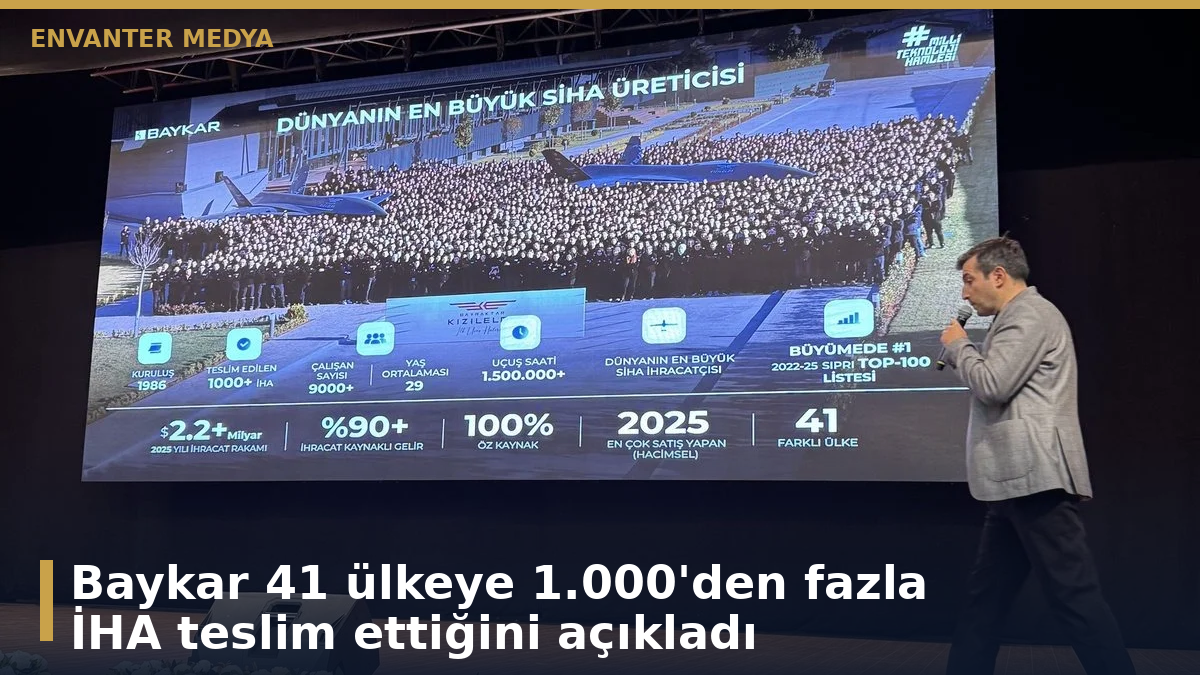
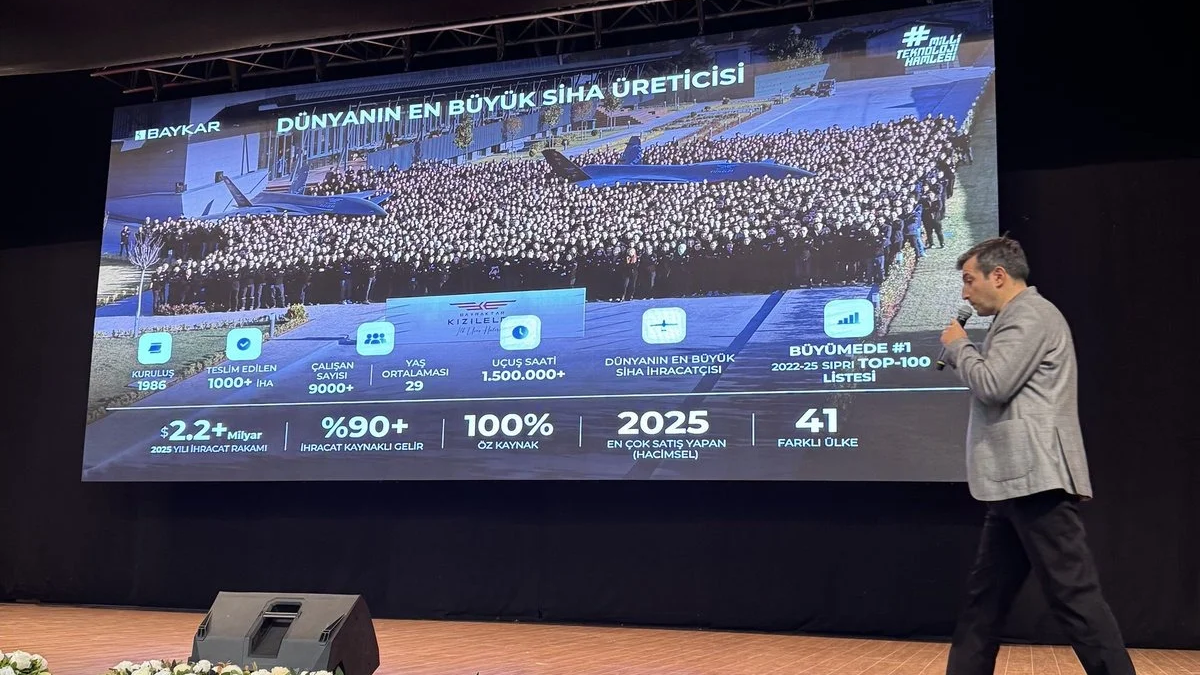
ASELSAN GES haberi: EN/AR/ES/RU sürümleri, tweet fotoğrafları; Baykar kapağı metinsiz
Claude-Session: https://claude.ai/code/session_01AWoAH1BrhXtYXK8KMomuD2

Changed region(s): [[0.0, 0.8089, 1.0, 1.0], [0.0, 0.0, 1.0, 0.0933], [0.8017, 0.6844, 0.925, 0.7467]]

diff --git a/haberler/aselsan-ges-pulsar-inverter/ru/icerik.html b/haberler/aselsan-ges-pulsar-inverter/ru/icerik.html
@@ -1,0 +1,20 @@
+<p><strong>ASELSAN ввела в эксплуатацию две новые солнечные электростанции. Как следует из публикации генерального директора ASELSAN Ахмета Акиола в X от 8 ноября 2026 года, компания также впервые применила на новых объектах собственные инверторы PULSAR.</strong></p>
+<figure class="wp-block-image size-large"><img src="https://envantermedya.com/wp-content/uploads/2026/11/aselsan-ges-akyol-foto-3.webp" alt="Ряды панелей на солнечной электростанции ASELSAN"/><figcaption class="wp-element-caption">Фото: публикация Ахмета Акиола в X</figcaption></figure>
+
+<h2>Главное из заявления Акиола</h2>
+<ul>
+<li>ASELSAN теперь полностью покрывает свои потребности в электроэнергии за счёт солнца.</li>
+<li>Благодаря двум новым станциям за год ожидается сокращение выбросов, равное эффекту четырёх миллионов деревьев.</li>
+<li>На новых станциях впервые в полевых условиях применены инверторы PULSAR, разработанные инженерами ASELSAN.</li>
+<li>Акиол отметил, что компания гордится вкладом этих технологий в «зелёный» переход страны.</li>
+</ul>
+<figure class="wp-block-image size-large"><img src="https://envantermedya.com/wp-content/uploads/2026/11/aselsan-ges-akyol-foto-1.webp" alt="Вид с воздуха на одну из новых солнечных электростанций ASELSAN"/><figcaption class="wp-element-caption">Фото: публикация Ахмета Акиола в X</figcaption></figure>
+
+<h2>Что такое инверторы PULSAR?</h2>
+<p>Инвертор преобразует постоянный ток солнечных панелей в переменный, пригодный для сети. ASELSAN представляла отечественное семейство инверторов PULSAR среди своей энергетической продукции. В феврале 2023 года агентство Anadolu сообщало, что компания строит солнечную станцию мощностью 75 МВт для покрытия годовых потребностей своих кампусов в Анкаре, с использованием 250-киловаттных струнных инверторов PULSAR.</p>
+<p>В публикации Акиола не указаны местоположение новых станций, их установленная мощность и модель PULSAR. Связь с проектом, объявленным в 2023 году, также не уточнена.</p>
+<figure class="wp-block-image size-large"><img src="https://envantermedya.com/wp-content/uploads/2026/11/aselsan-ges-akyol-foto-2.webp" alt="Сотрудники на площадке солнечной электростанции ASELSAN"/><figcaption class="wp-element-caption">Фото: публикация Ахмета Акиола в X</figcaption></figure>
+
+<h2>Что не раскрыто</h2>
+<p>В сообщении нет данных о мощности, объёме инвестиций и годовой выработке станций. Эти сведения прояснятся лишь после официального объявления ASELSAN.</p>
+<p><em>Источники: публикация генерального директора ASELSAN Ахмета Акиола в X (8 ноября 2026 года); агентство Anadolu, февраль 2023 года (инвертор PULSAR и солнечный проект на 75 МВт).</em></p>

diff --git a/haberler/aselsan-ges-pulsar-inverter/ar/icerik.html b/haberler/aselsan-ges-pulsar-inverter/ar/icerik.html
@@ -1,0 +1,20 @@
+<p><strong>دشّنت شركة أسيلسان محطتين جديدتين للطاقة الشمسية. ووفق منشور للمدير العام لأسيلسان أحمد أقيول على منصة X بتاريخ 8 نوفمبر 2026، نقلت الشركة أيضاً محوّلات PULSAR التي طورتها بنفسها إلى الميدان لأول مرة في المحطتين الجديدتين.</strong></p>
+<figure class="wp-block-image size-large"><img src="https://envantermedya.com/wp-content/uploads/2026/11/aselsan-ges-akyol-foto-3.webp" alt="صفوف الألواح في محطة طاقة شمسية لأسيلسان"/><figcaption class="wp-element-caption">الصورة: منشور أحمد أقيول على منصة X</figcaption></figure>
+
+<h2>أبرز ما جاء في تصريح أقيول</h2>
+<ul>
+<li>تلبّي أسيلسان الآن كامل احتياجها من الكهرباء من الطاقة الشمسية.</li>
+<li>بتشغيل المحطتين الجديدتين يُتوقع في عام واحد خفض للانبعاثات يعادل ما تحققه أربعة ملايين شجرة.</li>
+<li>تُستخدم في المحطتين الجديدتين محوّلات PULSAR التي طوّرها مهندسو أسيلسان ميدانياً لأول مرة.</li>
+<li>قال أقيول إنهم فخورون بالمساهمة بهذه التقنيات في التحول الأخضر للبلاد.</li>
+</ul>
+<figure class="wp-block-image size-large"><img src="https://envantermedya.com/wp-content/uploads/2026/11/aselsan-ges-akyol-foto-1.webp" alt="منظر جوي لإحدى محطات الطاقة الشمسية الجديدة لأسيلسان"/><figcaption class="wp-element-caption">الصورة: منشور أحمد أقيول على منصة X</figcaption></figure>
+
+<h2>ما هي محوّلات PULSAR؟</h2>
+<p>المحوّل (الإنفرتر) يحوّل التيار المستمر الذي تنتجه الألواح الشمسية إلى تيار متناوب يمكن ضخه في الشبكة. وكانت أسيلسان قد قدّمت عائلة محوّلات PULSAR المحلية ضمن منتجاتها في مجال الطاقة. وفي فبراير 2023 ذكرت وكالة الأناضول أن الشركة تبني محطة شمسية بقدرة 75 ميغاواط لتغطية الاحتياج السنوي من الكهرباء لمجمعاتها في أنقرة، باستخدام محوّلات PULSAR بقدرة 250 كيلوواط.</p>
+<p>لم يحدّد منشور أقيول موقع المحطتين الجديدتين ولا قدرتهما المركّبة ولا طراز PULSAR المستخدم، ولم يوضح أيضاً صلتهما بالمشروع المعلن عام 2023.</p>
+<figure class="wp-block-image size-large"><img src="https://envantermedya.com/wp-content/uploads/2026/11/aselsan-ges-akyol-foto-2.webp" alt="عاملون في موقع محطة طاقة شمسية تابعة لأسيلسان"/><figcaption class="wp-element-caption">الصورة: منشور أحمد أقيول على منصة X</figcaption></figure>
+
+<h2>ما لم يُعلن</h2>
+<p>لا يتضمن المنشور قدرة المحطتين ولا حجم الاستثمار ولا الإنتاج السنوي. ولن تتضح هذه التفاصيل إلا بإعلان رسمي من أسيلسان.</p>
+<p><em>المصادر: منشور المدير العام لأسيلسان أحمد أقيول على منصة X (8 نوفمبر 2026)؛ وكالة الأناضول، فبراير 2023 (محوّل PULSAR ومشروع الطاقة الشمسية بقدرة 75 ميغاواط).</em></p>

diff --git a/haberler/aselsan-ges-pulsar-inverter/es/icerik.html b/haberler/aselsan-ges-pulsar-inverter/es/icerik.html
@@ -1,0 +1,20 @@
+<p><strong>ASELSAN ha puesto en servicio dos nuevas plantas de energía solar. Según una publicación del director general de ASELSAN, Ahmet Akyol, en X el 8 de noviembre de 2026, la compañía también ha llevado por primera vez a campo sus inversores PULSAR de desarrollo propio en las nuevas instalaciones.</strong></p>
+<figure class="wp-block-image size-large"><img src="https://envantermedya.com/wp-content/uploads/2026/11/aselsan-ges-akyol-foto-3.webp" alt="Filas de paneles en una planta solar de ASELSAN"/><figcaption class="wp-element-caption">Foto: publicación de Ahmet Akyol en X</figcaption></figure>
+
+<h2>Lo más destacado de la declaración de Akyol</h2>
+<ul>
+<li>ASELSAN cubre ahora toda su demanda eléctrica con energía solar.</li>
+<li>Con las dos nuevas plantas, la empresa prevé en un año una reducción de emisiones equivalente a la de cuatro millones de árboles.</li>
+<li>Es la primera vez que los inversores PULSAR, desarrollados por ingenieros de ASELSAN, se utilizan en campo.</li>
+<li>Akyol afirmó que se sienten orgullosos de contribuir con estas tecnologías a la transición verde del país.</li>
+</ul>
+<figure class="wp-block-image size-large"><img src="https://envantermedya.com/wp-content/uploads/2026/11/aselsan-ges-akyol-foto-1.webp" alt="Vista aérea de una de las nuevas plantas solares de ASELSAN"/><figcaption class="wp-element-caption">Foto: publicación de Ahmet Akyol en X</figcaption></figure>
+
+<h2>¿Qué son los inversores PULSAR?</h2>
+<p>Un inversor convierte la corriente continua que generan los paneles solares en corriente alterna apta para la red. ASELSAN ha presentado la familia nacional de inversores PULSAR entre sus productos de energía. En febrero de 2023, la agencia Anadolu informó de que la compañía construía una planta solar de 75 megavatios para cubrir el consumo eléctrico anual de sus instalaciones en Ankara, con inversores de string PULSAR de 250 kilovatios.</p>
+<p>La publicación de Akyol no indica dónde están las nuevas plantas, su potencia instalada ni el modelo PULSAR utilizado. Tampoco aclara si guardan relación con el proyecto anunciado en 2023.</p>
+<figure class="wp-block-image size-large"><img src="https://envantermedya.com/wp-content/uploads/2026/11/aselsan-ges-akyol-foto-2.webp" alt="Personal en una planta solar de ASELSAN"/><figcaption class="wp-element-caption">Foto: publicación de Ahmet Akyol en X</figcaption></figure>
+
+<h2>Lo que no se ha revelado</h2>
+<p>El mensaje no incluye la capacidad, la inversión ni la producción anual de las plantas. Esos datos solo se conocerán con un anuncio oficial de ASELSAN.</p>
+<p><em>Fuentes: publicación de Ahmet Akyol, director general de ASELSAN, en X (8 de noviembre de 2026); Agencia Anadolu, febrero de 2023 (inversor PULSAR y proyecto solar de 75 MW).</em></p>

diff --git a/haberler/aselsan-ges-pulsar-inverter/en/icerik.html b/haberler/aselsan-ges-pulsar-inverter/en/icerik.html
@@ -1,0 +1,20 @@
+<p><strong>ASELSAN has commissioned two new solar power plants. According to a post by ASELSAN General Manager Ahmet Akyol on X on 8 November 2026, the company has also taken its in-house PULSAR inverters into the field for the first time at the new sites.</strong></p>
+<figure class="wp-block-image size-large"><img src="https://envantermedya.com/wp-content/uploads/2026/11/aselsan-ges-akyol-foto-3.webp" alt="Rows of panels at an ASELSAN solar plant"/><figcaption class="wp-element-caption">Photo: Ahmet Akyol's post on X</figcaption></figure>
+
+<h2>Key points from Akyol's statement</h2>
+<ul>
+<li>ASELSAN now meets all of its electricity needs from solar power.</li>
+<li>With the two new plants, the company expects an emissions reduction in one year equivalent to that achieved by four million trees.</li>
+<li>The new plants are the first field deployment of PULSAR inverters developed by ASELSAN engineers.</li>
+<li>Akyol said the company is proud to contribute to the country's green transition with these technologies.</li>
+</ul>
+<figure class="wp-block-image size-large"><img src="https://envantermedya.com/wp-content/uploads/2026/11/aselsan-ges-akyol-foto-1.webp" alt="Aerial view of one of ASELSAN's new solar power plants"/><figcaption class="wp-element-caption">Photo: Ahmet Akyol's post on X</figcaption></figure>
+
+<h2>What are PULSAR inverters?</h2>
+<p>An inverter converts the direct current produced by solar panels into alternating current that can be fed into the grid. ASELSAN has promoted the domestic PULSAR inverter family among its energy products. In February 2023, Anadolu Agency reported that the company was building a 75-megawatt solar plant to cover the annual electricity needs of its Ankara campuses, using 250-kilowatt PULSAR string inverters.</p>
+<p>Akyol's post does not state where the new plants are, their installed capacity or which PULSAR model was used. Whether they relate to the project announced in 2023 was not specified either.</p>
+<figure class="wp-block-image size-large"><img src="https://envantermedya.com/wp-content/uploads/2026/11/aselsan-ges-akyol-foto-2.webp" alt="Staff at an ASELSAN solar power plant site"/><figcaption class="wp-element-caption">Photo: Ahmet Akyol's post on X</figcaption></figure>
+
+<h2>What was not disclosed</h2>
+<p>The post gives no capacity, investment figure or annual output for the plants. Those details will become clear only with an official ASELSAN announcement.</p>
+<p><em>Sources: Ahmet Akyol, General Manager of ASELSAN, post on X (8 November 2026); Anadolu Agency, February 2023 (PULSAR inverter and 75 MW solar plant project).</em></p>

diff --git a/haberler/aselsan-ges-pulsar-inverter/icerik.html b/haberler/aselsan-ges-pulsar-inverter/icerik.html
@@ -1,4 +1,5 @@
 <p><strong>ASELSAN, iki yeni güneş enerjisi santralini (GES) devreye aldı. ASELSAN Genel Müdürü Ahmet Akyol'un 8 Kasım 2026'da X hesabından yaptığı paylaşıma göre şirket, kendi geliştirdiği PULSAR inverterleri yeni santrallerde ilk kez sahaya taşıdı.</strong></p>
+<figure class="wp-block-image size-large"><img src="https://envantermedya.com/wp-content/uploads/2026/11/aselsan-ges-akyol-foto-3.webp" alt="ASELSAN güneş enerjisi santralinde panel sıraları"/><figcaption class="wp-element-caption">Fotoğraf: Ahmet Akyol'un X paylaşımı</figcaption></figure>
 
 <h2>Akyol'un açıklamasında öne çıkanlar</h2>
 <ul>
@@ -7,12 +8,13 @@
 <li>Yeni santrallerde, ASELSAN mühendislerinin geliştirdiği PULSAR inverterler ilk kez sahada kullanıldı.</li>
 <li>Akyol, bu teknolojilerle ülkenin yeşil dönüşümüne katkı sağlamaktan gurur duyduklarını belirtti.</li>
 </ul>
+<figure class="wp-block-image size-large"><img src="https://envantermedya.com/wp-content/uploads/2026/11/aselsan-ges-akyol-foto-1.webp" alt="ASELSAN'ın yeni güneş enerjisi santralinden hava görüntüsü"/><figcaption class="wp-element-caption">Fotoğraf: Ahmet Akyol'un X paylaşımı</figcaption></figure>
 
 <h2>PULSAR inverterler nedir?</h2>
 <p>İnverter, güneş panellerinin ürettiği doğru akımı şebekeye verilebilecek alternatif akıma çeviren cihaz. ASELSAN, PULSAR adlı yerli inverter ailesini enerji alanındaki ürünleri arasında tanıtıyordu. Anadolu Ajansı'nın Şubat 2023 tarihli haberinde, şirketin Ankara'daki yerleşkelerinin yıllık elektrik ihtiyacı için 75 megavat kapasiteli bir GES kurduğu ve bu projede 250 kilovatlık PULSAR dizi eviricilerin kullanılacağı bildirilmişti.</p>
 <p>Akyol'un paylaşımında yeni santrallerin yeri, kurulu gücü ve kullanılan PULSAR modeli belirtilmedi. Bu santrallerin 2023'te duyurulan projeyle ilişkisi de açıklanmadı.</p>
+<figure class="wp-block-image size-large"><img src="https://envantermedya.com/wp-content/uploads/2026/11/aselsan-ges-akyol-foto-2.webp" alt="ASELSAN güneş enerjisi santrali sahasında çalışanlar"/><figcaption class="wp-element-caption">Fotoğraf: Ahmet Akyol'un X paylaşımı</figcaption></figure>
 
 <h2>Açıklanmayanlar</h2>
 <p>Paylaşımda santrallerin kapasitesi, yatırım tutarı ve yıllık üretim miktarı yer almıyor. Bu bilgiler ASELSAN'ın resmî bir duyurusuyla netleşecek.</p>
-
 <p><em>Kaynak: ASELSAN Genel Müdürü Ahmet Akyol'un X hesabındaki paylaşımı (8 Kasım 2026); Anadolu Ajansı, Şubat 2023 (PULSAR inverter ve 75 MW GES projesi).</em></p>
